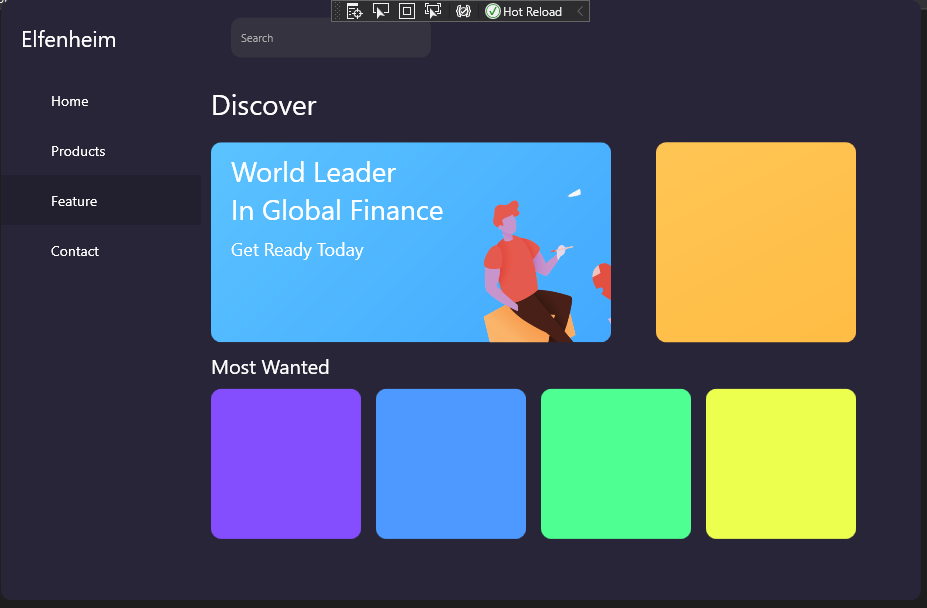
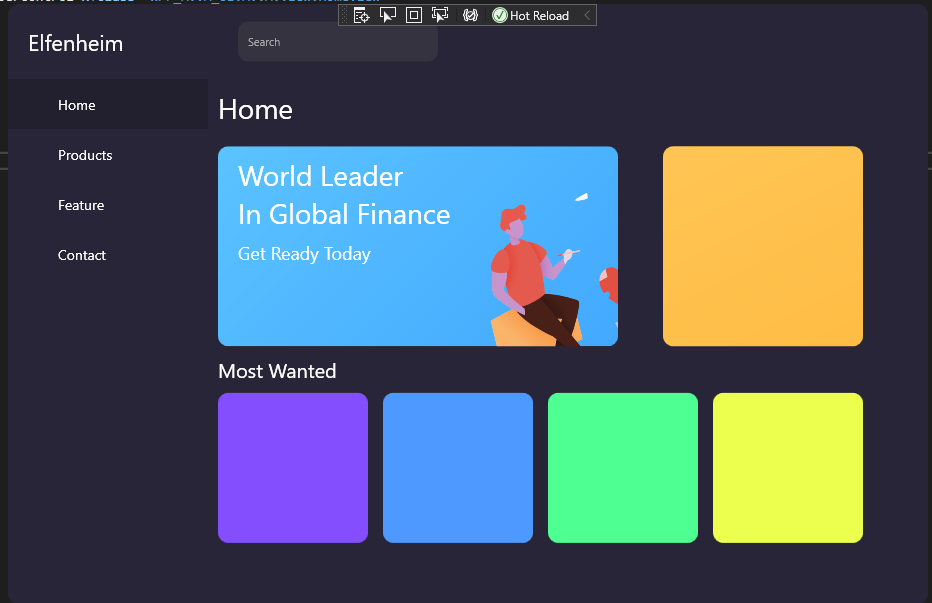
Fixed the image screenshot

diff --git a/WPF_MVVM_UI/MVVM/View/HomeView.xaml b/WPF_MVVM_UI/MVVM/View/HomeView.xaml
@@ -7,7 +7,7 @@
              mc:Ignorable="d" 
              d:DesignHeight="450" d:DesignWidth="800">
     <StackPanel>
-        <TextBlock Text="Discover"
+        <TextBlock Text="Home"
                    Foreground="White"
                    FontSize="28"
                    HorizontalAlignment="Left"
